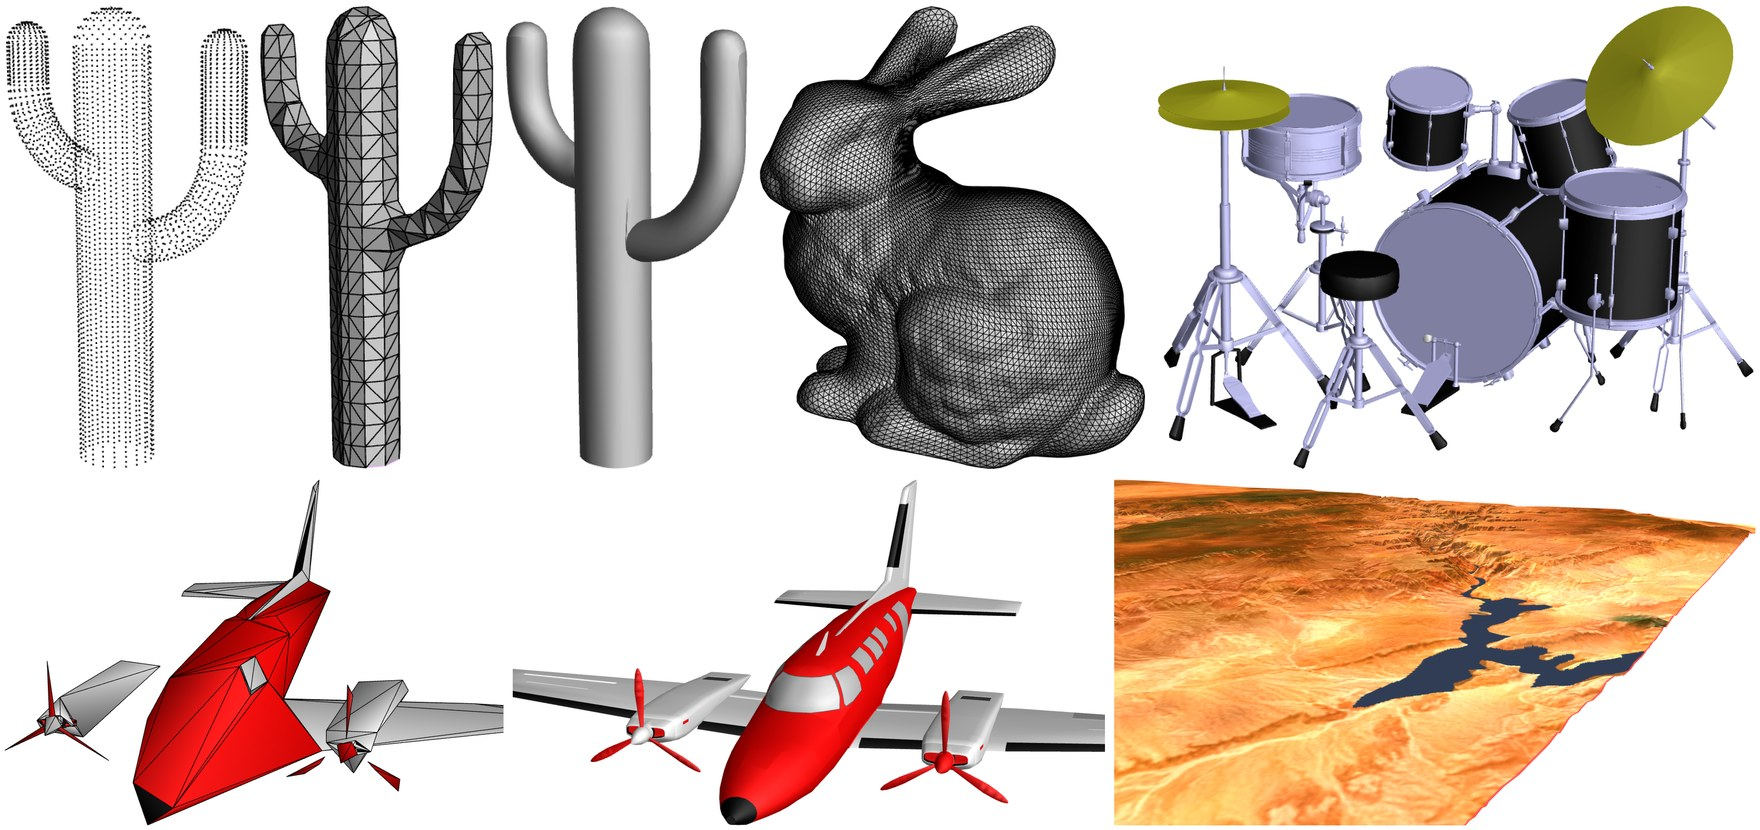
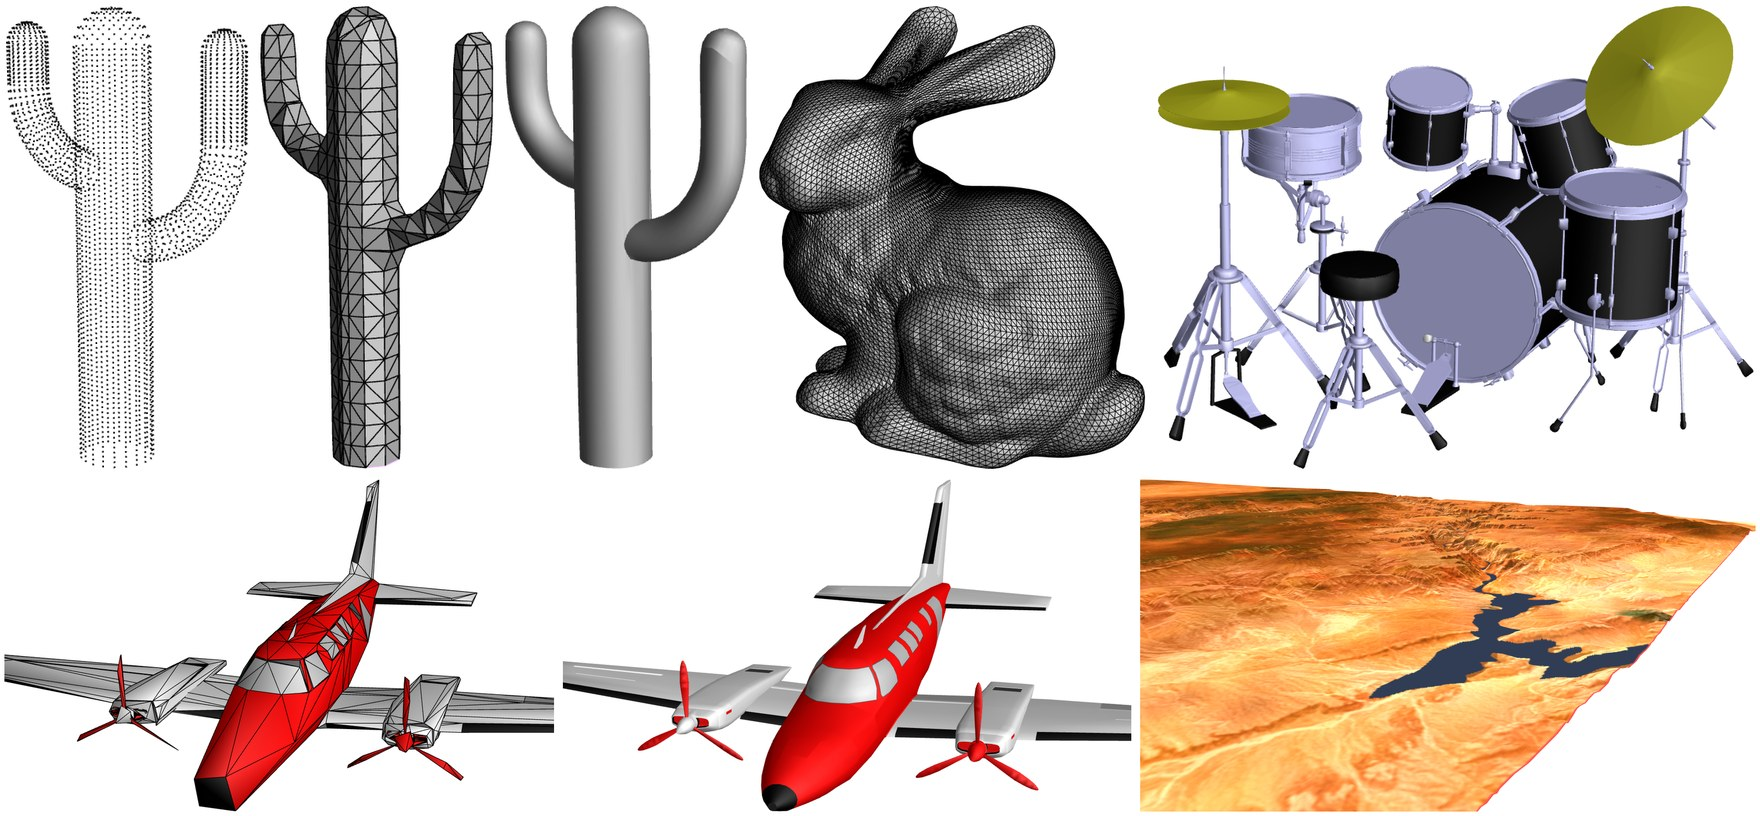
README images: show the Cessna progressive mesh at 800 and 3000 faces
- create_readme_images extracts the meshes with FilterPM -nf (800 and 3000 faces, and -finest for the full
  13,546 faces) instead of using PM_LOD_LEVEL fractions in the viewer, so the levels are well defined; the
  overview and the progressive-mesh strip are regenerated, and their captions give the face counts.

diff --git a/progs/README.md b/progs/README.md
@@ -249,7 +249,8 @@ MeshDistance -mfile distcap.recon.m -mfile distcap.opt.m -bothdir 1 -maxerror 1 
   <img src="../.github/images/progressive_mesh.jpg" alt="A progressive mesh of an airplane, at three of its continuous levels of detail.">
 </picture>
 
-<em>A progressive mesh of an airplane, at three of its continuous levels of detail.</em>
+<em>A progressive mesh of an airplane, at three of its continuous levels of detail
+(800, 3000, and 13,546 faces).</em>
 
 Given a mesh, `MeshSimplify` applies a sequence of <em>edge collapse</em> operations
 to simplify it to a coarse <em>base mesh</em> while trying to best preserve the appearance of the original model.

diff --git a/README.md b/README.md
@@ -31,7 +31,8 @@ The source code has been updated to modern C++ style and for cross-platform use.
 <em>Results rendered by the viewer `G3dOGL`.
 Top: a set of points, the mesh reconstructed from it, and the fitted subdivision surface;
 a spherical remesh; a progressive simplicial complex.
-Bottom: a progressive mesh at a coarse and at its full resolution; view-dependent refinement of a terrain.</em>
+Bottom: a progressive mesh at a coarse (800 faces) and at its full resolution;
+view-dependent refinement of a terrain.</em>
 
 The [programs page](progs/README.md) shows these and other results together with the commands that create them.
 
